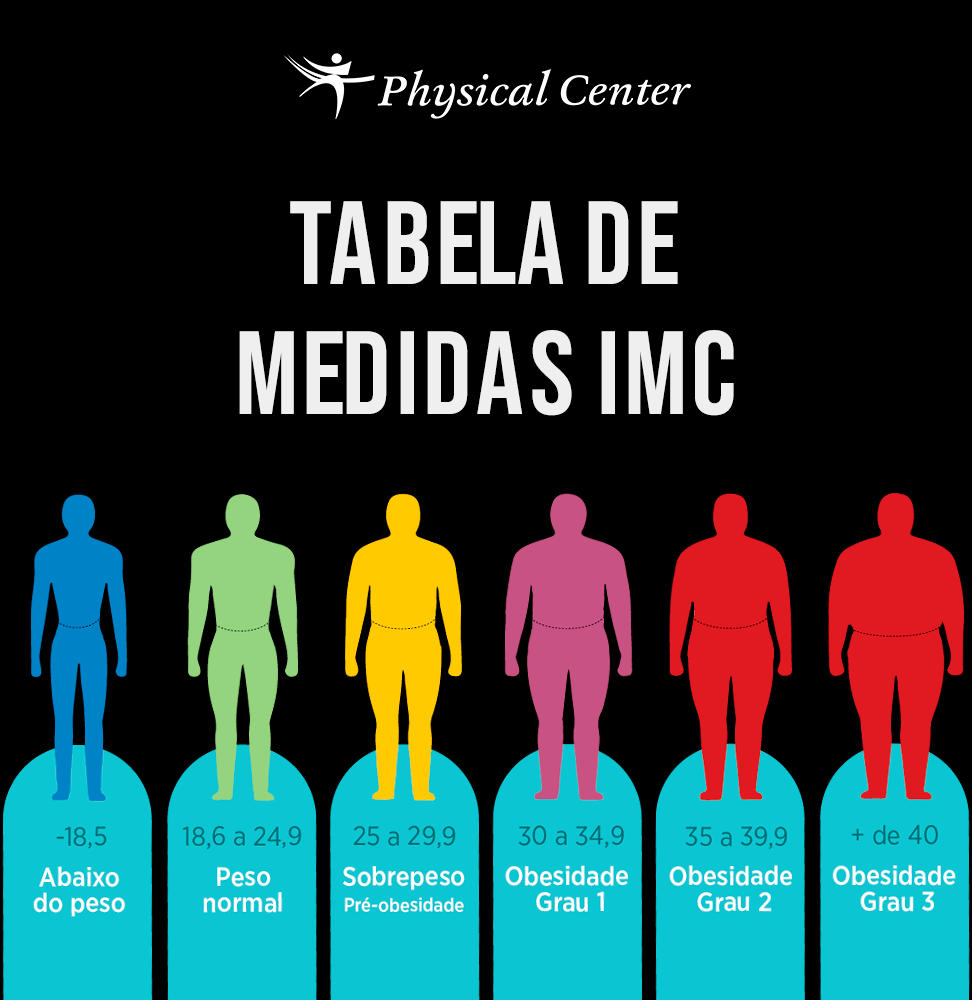
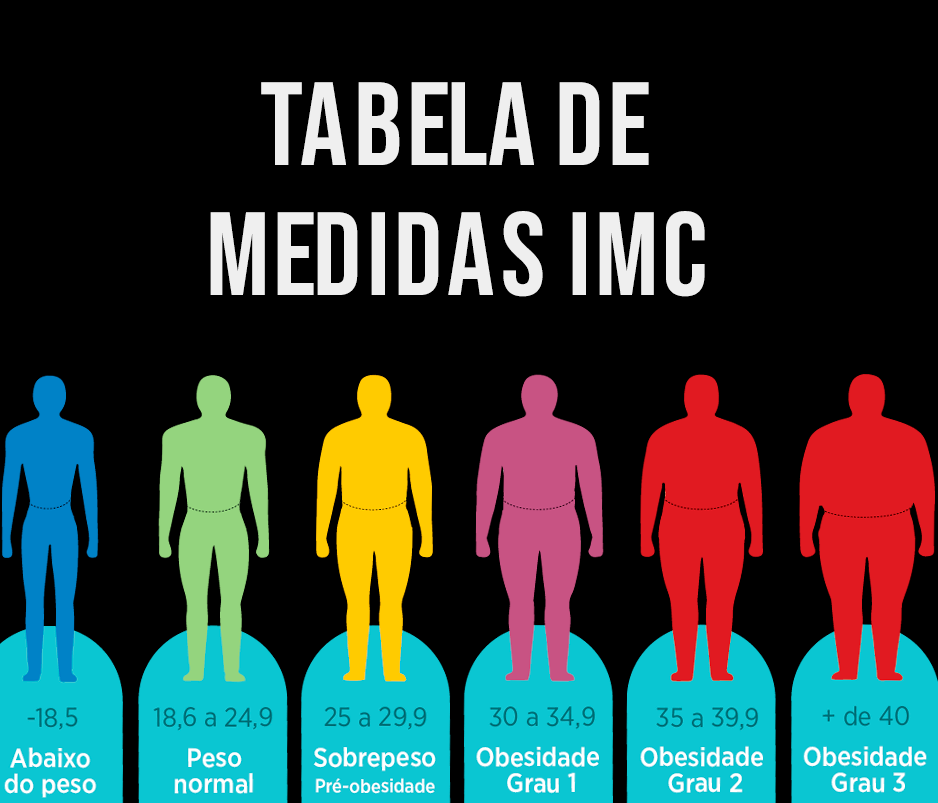
add styles.js

diff --git a/src/Table.js b/src/Table.js
@@ -1,38 +1,27 @@
 import * as React from "react";
-import { View, Text, Button, Image, StyleSheet } from "react-native";
+import { View, Text, Button, Image } from "react-native";
+import styles from "./styles/styles";
 
 function Tableview({ navigation }) {
   return (
     <View style={styles.container}>
-      <Text style={styles.text}>Classificação de resultados</Text>
-      <Image style={styles.table} source={require("../assets/table.png")} />
+      <Text style={styles.text}>Classificação</Text>
+      <Image
+        style={styles.table}
+        source={require("../assets/table.png")}
+        resizeMode="contain"
+      />
       <Button
-        title=" Calcular IMC"
+        title="Calcular IMC"
         onPress={() => navigation.navigate("IMC")}
       />
       <Button
         title="Tela Inicial"
         onPress={() => navigation.navigate("Home")}
       />
-      <Button title="Votlar" onPress={() => navigation.goBack()} />
+      <Button title="Voltar" onPress={() => navigation.goBack()} />
     </View>
   );
 }
-
-const styles = StyleSheet.create({
-  container: {
-    backgroundColor: "black",
-    flex: 1,
-    alignItems: "center",
-    justifyContent: "center",
-  },
-  text: {
-    color: "white",
-  },
-  table: {
-    width: 66,
-    height: 58,
-  },
-});
 
 export default Tableview;

diff --git a/src/IMC.js b/src/IMC.js
@@ -1,10 +1,11 @@
 import * as React from "react";
-import { View, Text, TextInput, Button, StyleSheet } from "react-native";
+import { View, Text, TextInput, Button } from "react-native";
+import styles from "./styles/styles";
 
 function IMC({ navigation }) {
   return (
     <View style={styles.container}>
-      <Text style={styles.text}>Calculando IMC</Text>
+      <Text style={styles.text}>Calculadora de IMC</Text>
       <TextInput style={styles.textinput} placeholder="Altura (m)" />
       <TextInput style={styles.textinput} placeholder="Peso (Kg)" />
 
@@ -21,26 +22,5 @@ function IMC({ navigation }) {
     </View>
   );
 }
-
-const styles = StyleSheet.create({
-  container: {
-    backgroundColor: "black",
-    flex: 1,
-    alignItems: "center",
-    justifyContent: "center",
-  },
-  text: {
-    color: "white",
-  },
-  textinput: {
-    height: 40,
-    width: 250,
-    margin: 12,
-    borderWidth: 1,
-    padding: 5,
-    backgroundColor: "white",
-    textAlign: "center",
-  },
-});
 
 export default IMC;

diff --git a/src/Homescreen.js b/src/Homescreen.js
@@ -1,10 +1,16 @@
 import * as React from "react";
-import { View, Text, Button, StyleSheet } from "react-native";
+import { View, Text, Button, Image } from "react-native";
+import styles from "./styles/styles";
 
 function HomeScreen({ navigation }) {
   return (
     <View style={styles.container}>
-      <Text style={styles.text}>Home Screen</Text>
+      <Text style={styles.text}>Descubra seu IMC</Text>
+      <Image
+        style={styles.table}
+        source={require("../assets/logo.png")}
+        resizeMode="contain"
+      />
       <Button
         title=" Calcular IMC"
         onPress={() => navigation.navigate("IMC")}
@@ -16,17 +22,5 @@ function HomeScreen({ navigation }) {
     </View>
   );
 }
-
-const styles = StyleSheet.create({
-  container: {
-    backgroundColor: "black",
-    flex: 1,
-    alignItems: "center",
-    justifyContent: "center",
-  },
-  text: {
-    color: "white",
-  },
-});
 
 export default HomeScreen;

diff --git a/src/styles/styles.js b/src/styles/styles.js
@@ -1,0 +1,29 @@
+import { StyleSheet } from "react-native";
+
+const styles = StyleSheet.create({
+  container: {
+    backgroundColor: 'black',
+    flex: 1,
+    alignItems: 'center',
+    justifyContent: 'center',
+  },
+  text: {
+    fontSize: 40,
+    color: 'white',
+    textAlign: "center"
+  },
+  textinput: {
+    height: 40,
+    width: 250,
+    margin: 12,
+    borderWidth: 1,
+    padding: 5,
+    backgroundColor: 'white',
+    textAlign: 'center',
+  },
+  table: {
+    height: 325,
+  },
+});
+
+export default styles;

diff --git a/App.js b/App.js
@@ -1,5 +1,4 @@
 import * as React from "react";
-import { StyleSheet } from "react-native";
 import { NavigationContainer } from "@react-navigation/native";
 import { createNativeStackNavigator } from "@react-navigation/native-stack";
 import HomeScreen from "./src/Homescreen";

diff --git a/README.md b/README.md
@@ -1,1 +1,18 @@
 # my-app
+
+Expo installation:
+
+npm install --global expo-cli
+
+Initializing my-project:
+
+expo init my-project blank
+cd my-app
+
+Need to install dependencies:
+
+npm install @react-navigation/native @react-navigation/native-stack
+
+and
+
+expo install react-native-screens react-native-safe-area-context
